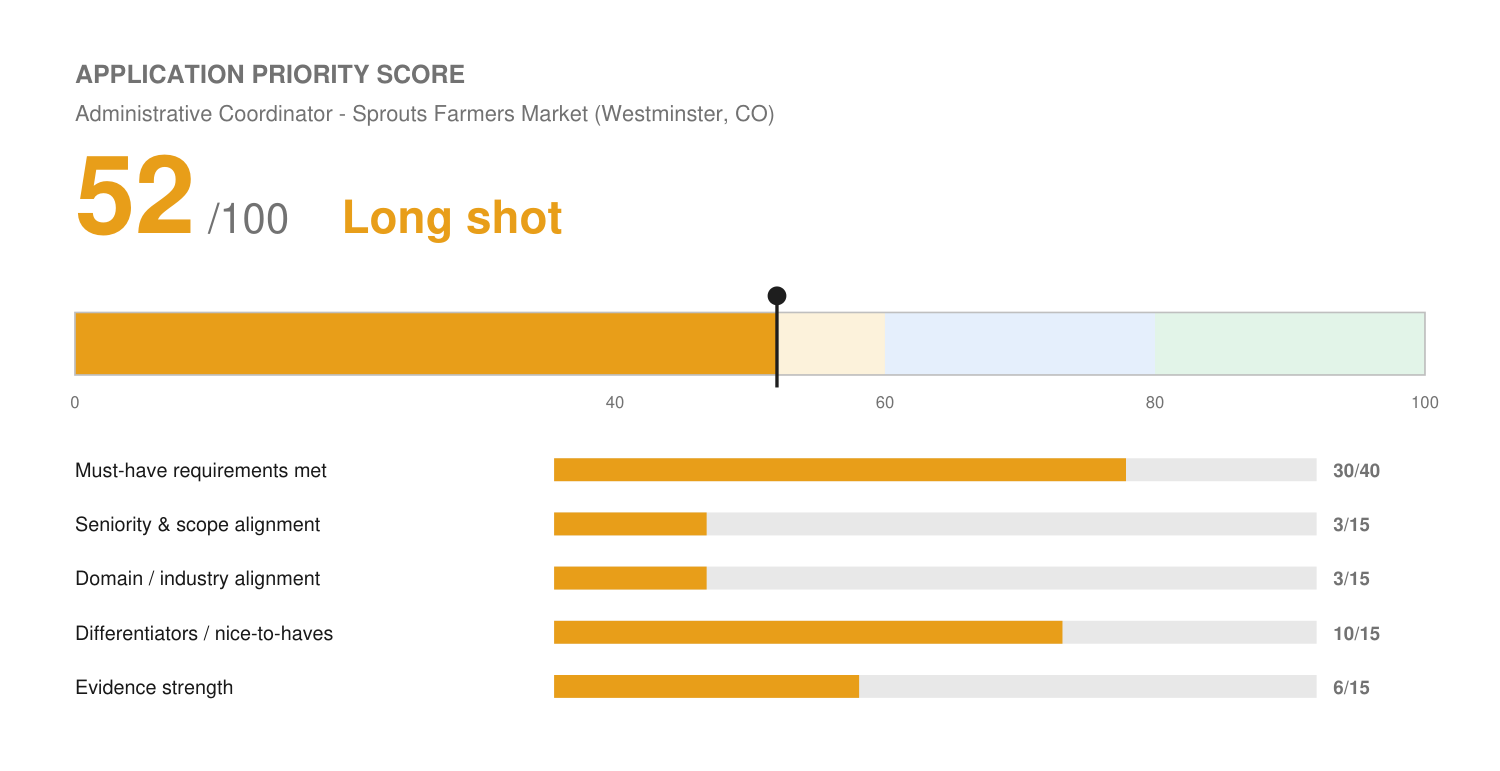
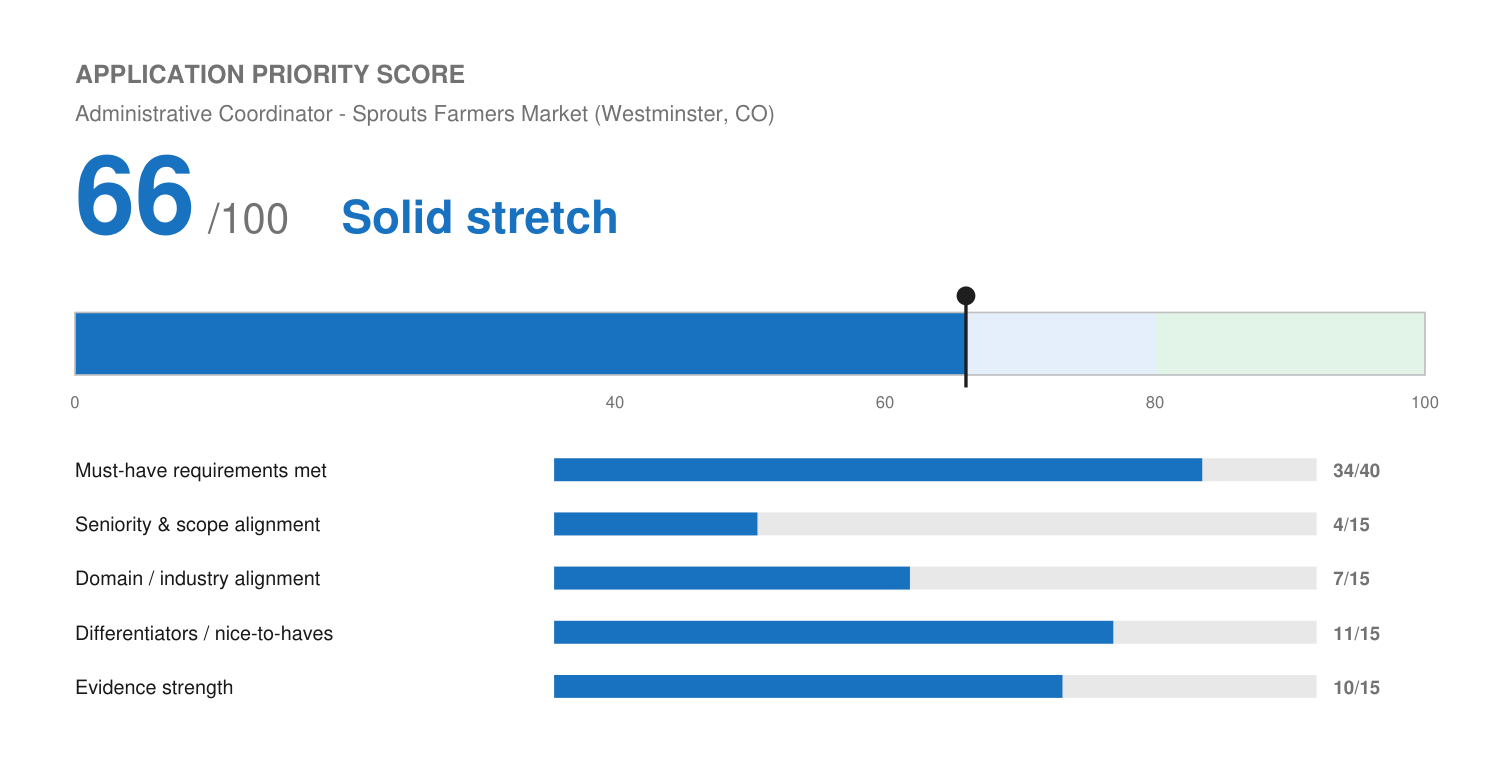
Sprouts interview landed: confirm cash-handling, update score, add prep doc
Sprouts extended an interview for the Administrative Coordinator role.
In prepping, Josh confirmed he personally and regularly handled cash
counting, till reconciliation, and bank deposits at Standing Akimbo, the
single largest gap flagged in the original match report. Also confirmed
his day-to-day tools are Google Apps, not real Excel/Outlook depth,
recorded as a standing gap so it's answered honestly rather than
overclaimed.

Updated master-profile.md (Standing Akimbo bullet bank, MS Office
knockout note), the resume (leads with cash handling now), and the
score, which moved 52 -> 66 (Long shot -> Solid stretch) on real new
evidence, not inflation.

Added sprouts-farmers-market-interview-prep.md per this repo's interview-
prep convention: talking points mapped to real evidence for cash
handling, hiring/onboarding, and reporting; honest scripted answers for
the remaining gaps (payroll systems, bookkeeping software, Excel,
grocery experience); and a flagged placeholder for Josh's own honest
answer to the "why this role given your background" question, which
only he can supply.

Claude-Session: https://claude.ai/code/session_01HeZspKnLVkWbr9yhNEisQZ

diff --git a/applications/sprouts-farmers-market/match-report.md b/applications/sprouts-farmers-market/match-report.md
@@ -17,36 +17,40 @@
 | HS diploma or equivalent | Resume-evidenced | Exceeded — B.A., Colorado State University. |
 | 1–2 yrs retail store accounting/admin/HR (preferred, not required) | Candidate confirmation needed / adjacent | No retail-store-specific or bookkeeping experience on file. Real admin, hiring, onboarding, and reporting experience exists but not in a retail setting. |
 | Flexible schedule incl. nights/weekends/holidays | Resume-evidenced | Profile confirms this is acceptable (confirmed Aug 2026). |
-| Outlook, Excel, Word proficiency | **Candidate confirmation needed** | Profile documents "Google Apps" under Tools & Platforms but does not name Microsoft Office specifically. Ask Josh directly whether he can speak to hands-on Excel/Outlook/Word use — likely yes given 15 years of office/reporting work, but not on record. |
+| Outlook, Excel, Word proficiency | **Confirmed gap** | Josh confirmed (Sep 2026) his day-to-day tool use is Google Apps, not real Excel/Outlook depth. Not claimed on the resume. Honest interview framing: fast adoption of new software across 15 years, not existing Excel fluency. |
 | Bookkeeping/accounting software knowledge | **Gap** | Nothing in the profile evidences bookkeeping or accounting-software experience. |
 | HR/payroll software knowledge (HRIS, timekeeping systems) | **Gap** | Profile shows CRM systems (Salesforce, HubSpot, GoHighLevel), not HRIS/payroll platforms. |
-| Cash handling, till/safe balancing, bank deposits | **Gap** | Not documented anywhere in the profile. See open question below re: Standing Akimbo. |
+| Cash handling, till/safe balancing, bank deposits | **Covered (strong) — updated Sep 2026** | Josh confirmed he personally and regularly handled cash counting, till reconciliation, and bank deposits at Standing Akimbo (licensed cannabis dispensary, cash-intensive by necessity). Added to the resume and `master-profile.md`. This was the single largest gap in the original match report. |
 | Physical requirements (lift 30 lbs, sit for extended periods, etc.) | Application-form | Self-certification at application/onboarding, not a resume claim. |
 | PPE compliance | Application-form | Onboarding requirement, not a resume claim. |
 
 No hard eligibility failure found — no license, work-authorization, or location blocker. Eligibility cap does not apply.
 
-**Open question for Josh:** Standing Akimbo (licensed cannabis dispensary, Co-Owner/Operations Lead, 2010–2012) is the closest thing in the profile to retail-adjacent operations, but the profile doesn't document cash handling specifically — and dispensaries in that era were typically cash-heavy given limited banking access. Did you personally handle cash counting, deposits, or till-type reconciliation there? If yes, that's real, relevant evidence worth adding to the resume and to `master-profile.md`.
+**Update, Sep 2026 — Sprouts extended an interview.** Josh confirmed he personally and regularly handled cash counting, till reconciliation, and bank deposits at Standing Akimbo. This closed the single largest gap flagged in the original report. Resume, profile, and score below updated accordingly.
 
 ---
 
 ## Application Priority Score
 
 ```
-🟡 Application Priority Score: 52 / 100 — Long shot
-[██████████░░░░░░░░░░]  52%
+🔵 Application Priority Score: 66 / 100 — Solid stretch
+[█████████████░░░░░░░]  66%
 ```
 *Internal decision aid — not a prediction of Sprouts' own screening outcome.*
 
+**Updated Sep 2026:** originally scored 52/100 (Long shot). The jump to 66 reflects real, newly
+confirmed cash-handling evidence, not resume inflation — this was the biggest, most-cited gap in
+the original report and is now directly evidenced.
+
 | Dimension | Score | Max | Why |
 | :--- | :--- | :--- | :--- |
-| Must-have requirements met | 30 | 40 | Every explicit hard requirement (age, education, physical capability, schedule flexibility) is met or exceeded. The "preferred" retail accounting/admin/HR experience isn't retail-specific, but real adjacent admin/onboarding/HR experience exists. |
-| Seniority & scope alignment | 3 | 15 | Severe downward mismatch: 15+ years as a SaaS Account Executive, team lead, and founder, applying to an hourly, entry-to-mid retail admin role. |
-| Domain / industry alignment | 3 | 15 | No grocery/retail-store experience. Only retail-adjacent experience (Standing Akimbo dispensary) isn't confirmed for cash-handling specifics. |
-| Differentiators / nice-to-haves | 10 | 15 | Genuine strengths: hands-on hiring/onboarding/training (including a corroborated manager reference), team leadership up to 20 people, dashboard/reporting discipline, structured records management. |
-| Evidence strength | 6 | 15 | Strong, quantified evidence for onboarding/training/reporting; zero evidence for the core daily function (cash, tills, safe, deposits, payroll transmission). |
+| Must-have requirements met | 34 | 40 | Every explicit hard requirement is met or exceeded, and cash handling (previously a stated gap in the core job function) is now directly evidenced. |
+| Seniority & scope alignment | 4 | 15 | Still a real downward mismatch: 15+ years as a SaaS Account Executive, team lead, and founder, applying to an hourly, entry-to-mid retail admin role. Unaffected by the new information. |
+| Domain / industry alignment | 7 | 15 | Real, hands-on retail-operations experience in a cash-intensive licensed retail environment (Standing Akimbo), though not grocery-specific and from 2010–2012. |
+| Differentiators / nice-to-haves | 11 | 15 | Hiring/onboarding/training depth (corroborated by a manager's reference), reporting discipline, and now confirmed cash/till/deposit experience. |
+| Evidence strength | 10 | 15 | Strong, quantified evidence for onboarding/training/reporting, plus real (if unquantified) cash-handling experience. |
 
-**Band: Long shot (40–59)** — apply if this is genuinely wanted, and lead with the differentiators (hiring/onboarding depth, reporting rigor, organizational discipline). The score reflects a real scope and domain mismatch, not a disqualifying one.
+**Band: Solid stretch (60–79)** — apply with the tailored resume; the scope/seniority gap is still real and worth Josh's own consideration, but the core-function gap that drove the original Long-shot score is resolved.
 
 ---
 
@@ -54,12 +58,12 @@ No hard eligibility failure found — no license, work-authorization, or locatio
 
 **Hard requirements (all met):** age 18+, HS diploma or equivalent (exceeded), physical capability for the role, schedule flexibility.
 
-**Core job-function requirements (largely unevidenced):**
-- Cash/till/change-drawer handling — Gap
-- Safe balancing, refund reports — Gap
-- Bank deposit preparation, WIC/food-stamp/coupon reconciliation — Gap
-- Payroll transmission, timekeeping system operation — Gap
-- Bookkeeping/accounting or HR software — Gap
+**Core job-function requirements:**
+- Cash/till/change-drawer handling and bank deposits — **Covered (strong)**, Standing Akimbo.
+- Safe balancing, refund reports — Adjacent (real till/deposit experience, not safe-specific).
+- WIC/food-stamp/coupon reconciliation — Gap.
+- Payroll transmission, timekeeping system operation — Gap.
+- Bookkeeping/accounting or HR software — Gap.
 
 **Strong matches:**
 - Hiring, onboarding, and training of new employees — Wix (team of 20, then 8, over 2 years; contributed to hiring/onboarding/training of new hires; corroborated by direct manager's written recommendation) and Birdeye (onboarding/training for a high-volume partner network).
@@ -71,20 +75,20 @@ No hard eligibility failure found — no license, work-authorization, or locatio
 
 ## Top Strengths for This Role
 
-1. **Real, repeated hiring/onboarding/training experience**, not just adjacent — this is the one area of the JD Josh can evidence as strongly as a career administrative professional could, backed by a named manager's written recommendation.
-2. **Structured records and reporting discipline** — years of keeping auditable client/project records and building recurring reports map directly onto "keep store files organized" and "pull and distribute sales reports."
-3. **Team leadership at meaningful scale** (up to 20 people) shows he can operate inside a store's chain of command and support Core Managers on people matters.
+1. **Real, direct cash-handling experience** — regular cash counting, till reconciliation, and bank deposits at Standing Akimbo, closing what was the biggest gap on this application.
+2. **Real, repeated hiring/onboarding/training experience**, not just adjacent — backed by a named manager's written recommendation.
+3. **Structured records and reporting discipline** — years of keeping auditable client/project records and building recurring reports map directly onto "keep store files organized" and "pull and distribute sales reports."
+4. **Team leadership at meaningful scale** (up to 20 people) shows he can operate inside a store's chain of command and support Core Managers on people matters.
 
 ## Gaps
 
-- No cash-handling, till/safe, bank-deposit, or payroll-transmission experience anywhere in the profile — this is the core of the daily job and currently has zero resume evidence.
-- No bookkeeping/accounting software or HRIS/payroll-system experience documented.
-- No grocery or general retail-store industry experience.
+- No payroll-transmission, timekeeping-system, or bookkeeping/accounting-software experience documented.
+- No WIC/food-stamp/coupon-reconciliation experience specifically.
+- No grocery or general retail-store industry experience (Standing Akimbo is retail-adjacent, not grocery).
 
 ## Candidate Confirmation Needed
 
-- **Standing Akimbo cash handling** — see open question above. Could close part of the cash-handling gap if real.
-- **Microsoft Excel/Outlook/Word** — profile only documents "Google Apps." Confirm whether Josh can speak to hands-on MS Office use; if yes, add to `master-profile.md` and this resume.
+None remaining — both open items from the original report (cash handling, MS Office) are now resolved and reflected above.
 
 ## Metrics Needed
 

diff --git a/applications/sprouts-farmers-market/sprouts-farmers-market-interview-prep.md b/applications/sprouts-farmers-market/sprouts-farmers-market-interview-prep.md
@@ -1,0 +1,82 @@
+# Interview Prep — Administrative Coordinator, Sprouts Farmers Market
+
+**Store:** #0301, Westminster, CO | **Req:** 376084 | **Current fit score:** 66/100 (Solid stretch)
+
+Every talking point below is grounded in `profile/master-profile.md` — nothing here is invented for the interview. Where a gap is real, the answer says so plainly rather than dodging.
+
+---
+
+## The one question you need your own real answer to
+
+**"You've run your own business and managed sales teams for 15 years. Why are you applying for an hourly administrative role here?"**
+
+This will come up, directly or indirectly, and how you answer it matters more than any single skill question. I can't write this one for you honestly, it has to be your real reason (schedule flexibility, wanting hands-on local work, stepping back from SaaS sales pressure, liking Sprouts specifically, wanting steady income alongside Solenzo, whatever's true). A few structural notes on landing it well:
+
+- **Lead with the real reason, stated plainly.** Don't apologize for your background or explain it away as a "career pivot" if that's not really what's happening. If Solenzo keeps running alongside this, say so, plenty of people work a stable role and run something on the side, and Sprouts likely already assumes this given your resume.
+- **Connect it to something concrete about the role or Sprouts**, not just "I need a job." If there's a real reason you want *this* store or *this* company, name it.
+- **Don't oversell "long-term culture fit" claims you can't back up.** A grounded, honest answer beats a rehearsed one.
+
+Send me your real answer and I'll help you tighten it if you want a second pass.
+
+---
+
+## Core talking points, mapped to what you'll actually be asked
+
+### Cash handling, till reconciliation, bank deposits
+This is probably their top financial-accuracy concern given the AC role's daily cash duties, and it's now a real strength, not a gap.
+
+> "At Standing Akimbo, a licensed cannabis dispensary I co-owned and ran operations for, I personally and regularly handled cash counting, till reconciliation, and bank deposits. Dispensaries back then were largely cash-only, so this wasn't occasional, it was a daily part of running the business, and getting it wrong had real consequences."
+
+If asked for specifics (volume, frequency, discrepancy-handling process) and you remember more detail, that's worth telling me so I can add it to your profile for next time, but the above is accurate and sufficient as stated.
+
+### Hiring, onboarding, and training new employees
+Your strongest, most directly evidenced match to this JD.
+
+> "At Wix, I managed and developed a team of onboarding specialists for two years, twenty people, later eight, and was part of building a brand-new business line from scratch. That included hiring, onboarding, and training new hires, and developing training materials for tenured staff. My manager corroborated this directly in a written recommendation, it's not just my own framing of the work."
+
+Also usable: Birdeye's onboarding/training work for a high-volume partner network.
+
+### Keeping store files and records organized
+> "I've spent years keeping client and project records accurate and current across multiple systems and concurrent accounts, at Solenzo today and at Wix before that, where I helped standardize the data fields the whole team used for consistency. That discipline, keeping things organized so anyone can find what they need, is the same instinct this role needs for store files."
+
+### Pulling and distributing reports
+> "Building and delivering performance reports on a regular cadence is something I do constantly, dashboards at Solenzo, reporting frameworks at Level Agency. I'm comfortable owning a reporting rhythm and making sure the right people get the right numbers on time."
+
+### Flexible schedule (nights, weekends, holidays)
+Confirmed acceptable in your profile. Answer straightforwardly: yes, you're available and comfortable with a non-standard retail schedule.
+
+### Customer service
+Your whole career has been client-facing. Frame it plainly: 15 years of being the person a customer or client counts on to get things right and communicate clearly, that doesn't stop being true because the setting changes.
+
+---
+
+## Honest answers for the real gaps
+
+Don't dodge these if asked. A confident, honest answer beats a stretched one.
+
+**Payroll systems, timekeeping software, HRIS:**
+> "I haven't used a dedicated payroll or timekeeping system specifically, but I've adopted new software fast throughout my career, CRM platforms, automation tools, reporting systems, and I'd expect to be productive quickly on whatever Sprouts uses."
+
+**Bookkeeping/accounting software:**
+> "That's not something I've done directly. What I have done is keep financial and operational records accurate under real accountability, cash handling at Standing Akimbo, budget oversight at Wix, and I'd bring that same discipline to learning your specific systems."
+
+**Microsoft Excel/Outlook/Word:**
+> "My day-to-day tools have been Google Sheets and Docs rather than the Microsoft suite specifically, but they do the same job, and I pick up new software quickly. That's not going to be the thing that slows me down."
+
+Do **not** claim Excel proficiency you don't have, if they test it or ask a specific formula/function question, an honest "I'm more fluent in Sheets but the concepts transfer" holds up better than a claim that falls apart under a follow-up.
+
+**Grocery/retail-store industry experience:**
+> "I don't have grocery-specific experience. What I bring instead is real retail-operations experience from Standing Akimbo, cash handling, compliance, customer and vendor systems, plus fifteen years of the organizational and people-facing discipline this role needs day to day."
+
+---
+
+## Questions worth asking them
+
+- What does a typical day look like for the AC role here specifically, given the store's size and team?
+- How does the AC role work day-to-day with the Core Managers, is it mostly one point of contact or several?
+- What's the biggest operational challenge the store is trying to solve right now that this role would help with?
+- What does success in the first 90 days look like?
+
+---
+
+*Update this file (or tell me to) after the interview with anything you learn, new questions they asked, details about the team, so the next round or a future Sprouts application starts from what actually happened in the room.*

diff --git a/profile/master-profile.md b/profile/master-profile.md
@@ -38,6 +38,12 @@
 > Yelp in local business marketing/reputation (Birdeye, Fivestars) — represent this as
 > competitive familiarity, never as Yelp Ads platform experience.
 >
+> **Microsoft Office / Excel (confirmed by Josh, Sep 2026, do not re-ask):** day-to-day
+> tool use is Google Apps (Sheets, Docs, Slides), not real hands-on Excel/Outlook/Word
+> depth. Do not claim Excel proficiency on a resume or in an application answer. Where a
+> posting lists MS Office as required or preferred, the honest framing is fast adoption of
+> new software across 15 years of roles (true and defensible), not existing Excel fluency.
+>
 > **Non-standard schedules:** evenings, weekends, and holidays are acceptable for the right
 > role (confirmed Aug 2026 re: DCPA).
 >
@@ -346,6 +352,14 @@ operator talking, not like a candidate performing.
 > customer-vendor-supplier systems, not retail merchandising, budtender training, or
 > field sales, keep that distinction honest against postings asking specifically for the
 > latter.
+>
+> **Cash handling, till reconciliation, and bank deposits (confirmed by Josh, Sep 2026):**
+> Josh personally and regularly handled cash counting, till reconciliation, and bank
+> deposits at Standing Akimbo. Cannabis dispensaries in that era were typically cash-only
+> given limited banking access, so this was a real, recurring operational responsibility,
+> not incidental. Directly usable for any posting that asks for cash-handling, till/safe
+> reconciliation, or deposit-preparation experience.
+- Personally and regularly handled cash counting, till reconciliation, and bank deposits in a cash-intensive retail environment.
 - Built compliance and customer-management systems from scratch in a licensed cannabis dispensary.
 - Developed early operational infrastructure — intake processes and reporting systems — scaling the business to profitability.
 - Built customer service, vendor, and supplier workflows from the ground up.
